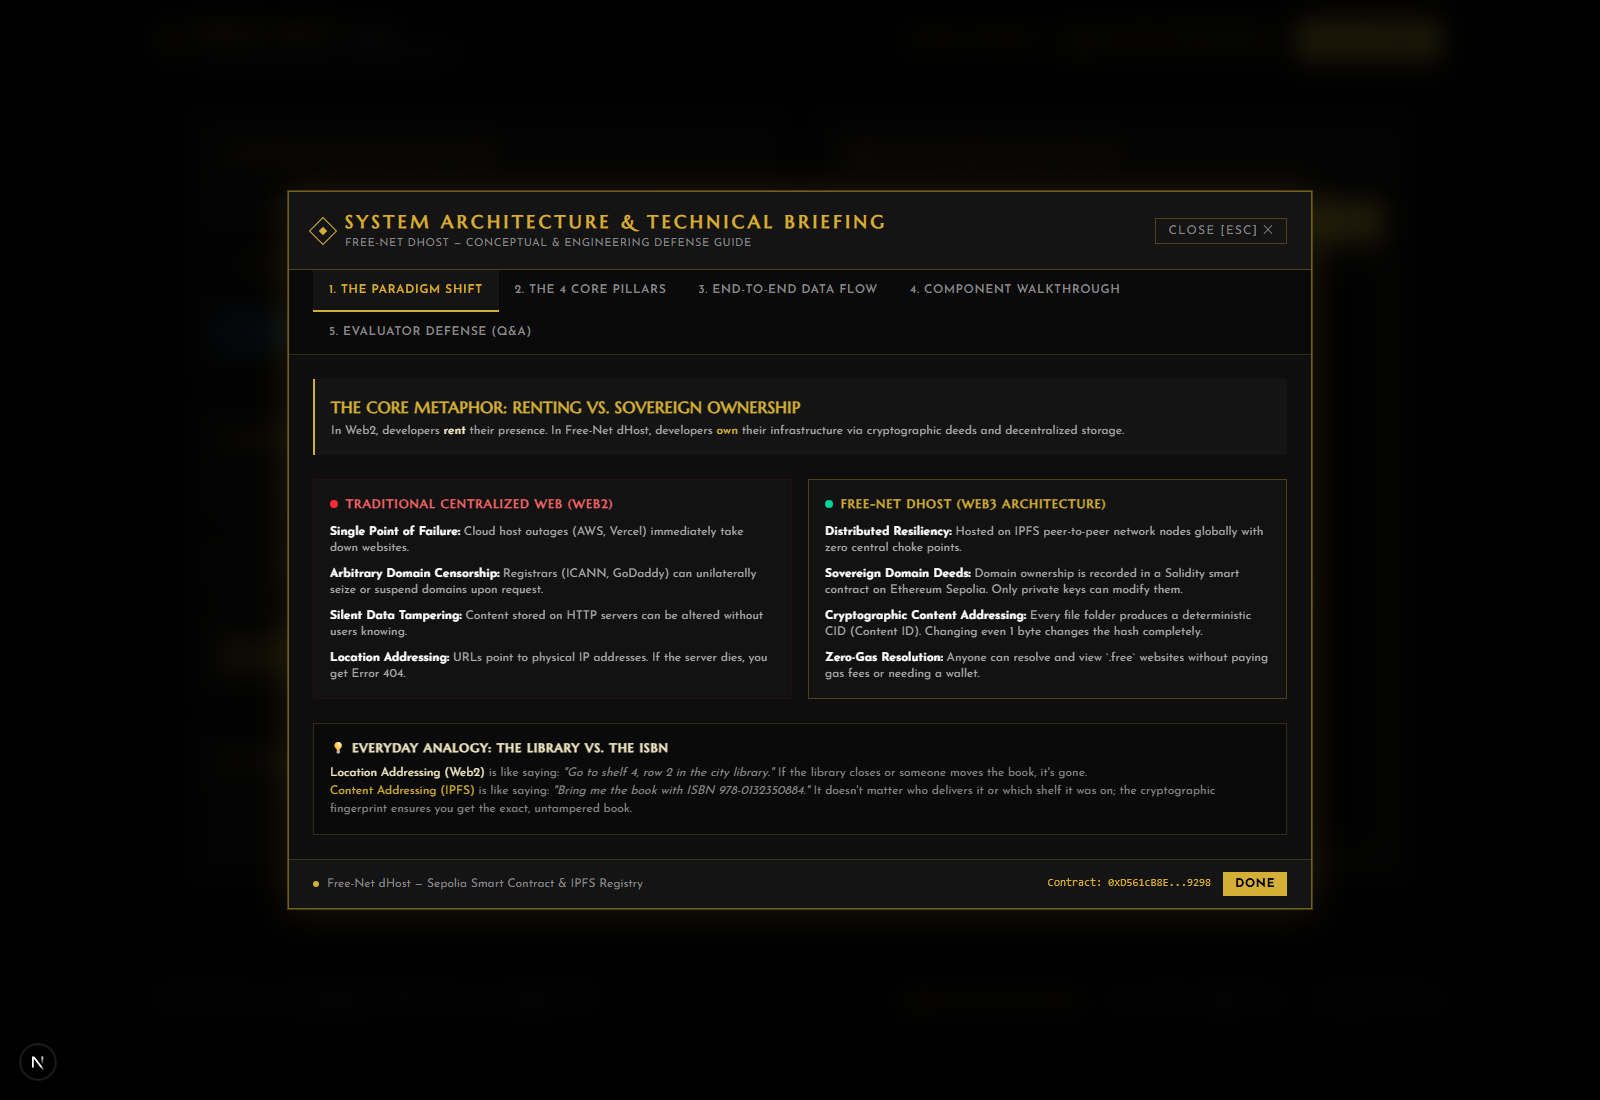
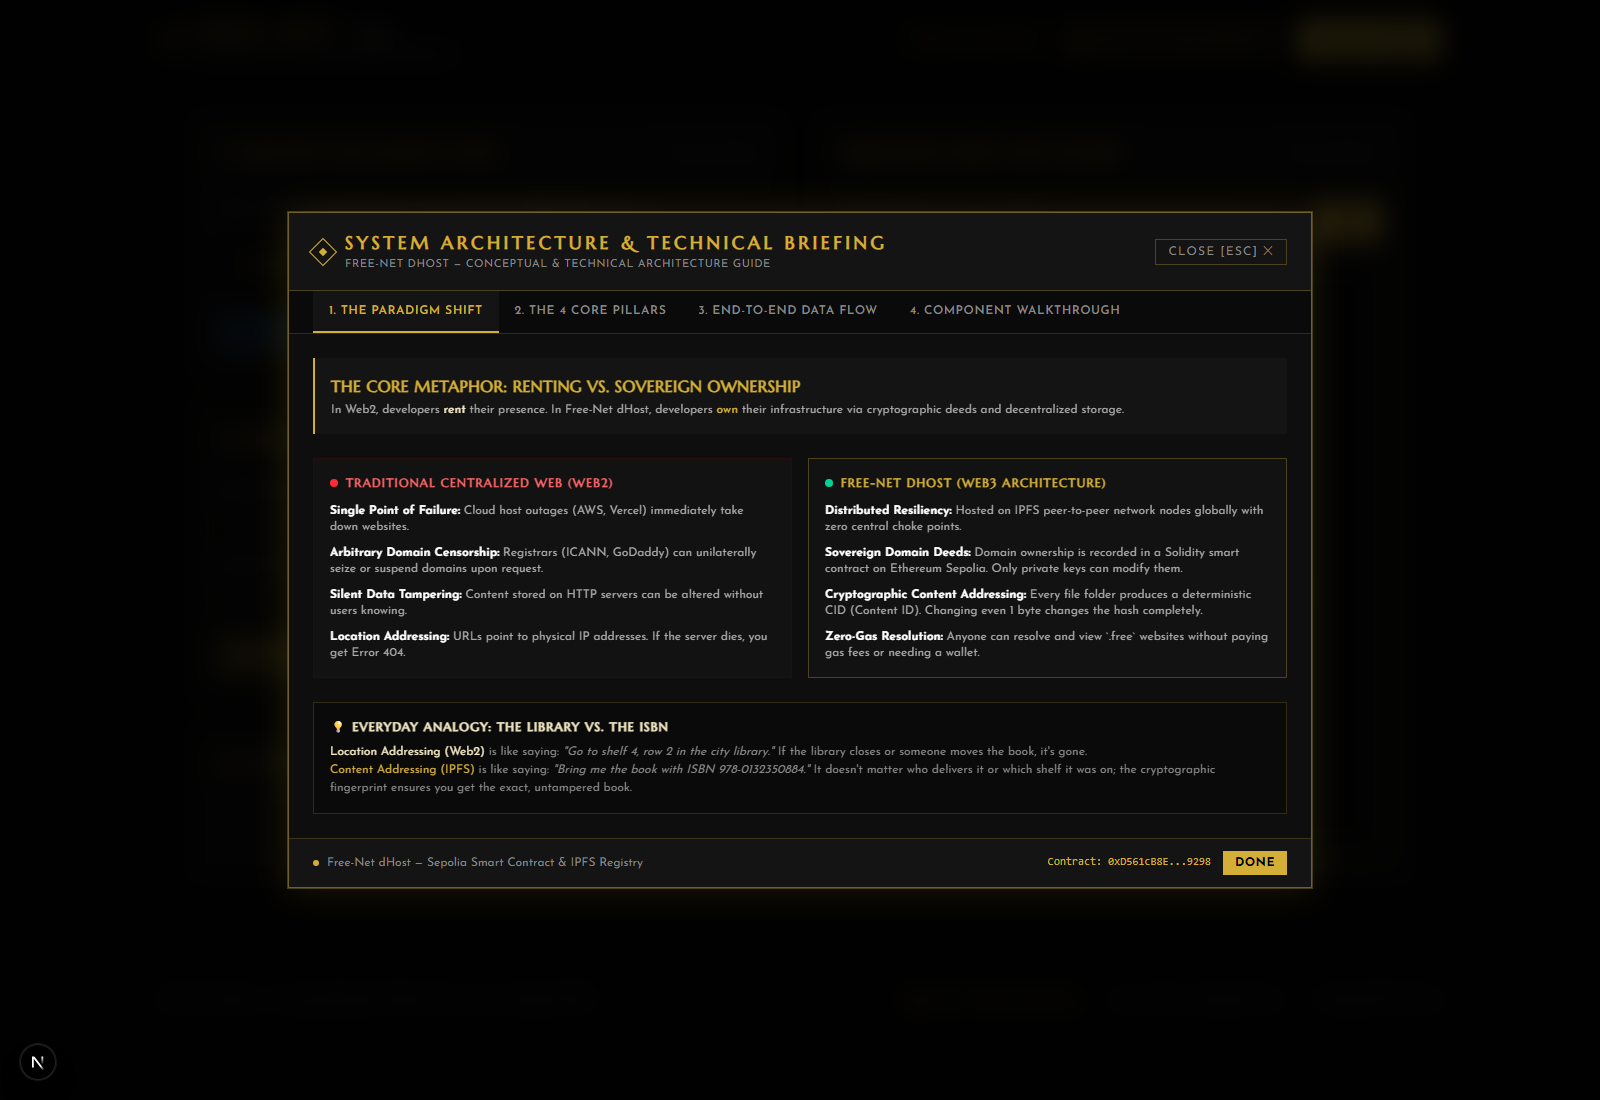
refactor: remove evaluator defense tab from briefing modal, keeping pure architectural guide

diff --git a/freenet-frontend/components/ArchitectureBriefingModal.tsx b/freenet-frontend/components/ArchitectureBriefingModal.tsx
@@ -6,7 +6,7 @@ interface Props {
 }
 
 export default function ArchitectureBriefingModal({ isOpen, onClose }: Props) {
-  const [activeTab, setActiveTab] = useState<'paradigm' | 'pillars' | 'flow' | 'components' | 'viva'>('paradigm');
+  const [activeTab, setActiveTab] = useState<'paradigm' | 'pillars' | 'flow' | 'components'>('paradigm');
 
   if (!isOpen) return null;
 
@@ -29,14 +29,14 @@ export default function ArchitectureBriefingModal({ isOpen, onClose }: Props) {
                 System Architecture &amp; Technical Briefing
               </h2>
               <p className="text-[11px] text-[#888888] tracking-wider uppercase">
-                Free-Net dHost — Conceptual &amp; Engineering Defense Guide
+                Free-Net dHost — Conceptual &amp; Technical Architecture Guide
               </p>
             </div>
           </div>
 
           <button
             onClick={onClose}
-            className="text-xs text-[#888888] hover:text-[#D4AF37] border border-[#D4AF37]/30 hover:border-[#D4AF37] px-3 py-1 uppercase tracking-widest transition"
+            className="text-xs text-[#888888] hover:text-[#D4AF37] border border-[#D4AF37]/30 hover:border-[#D4AF37] px-3 py-1 uppercase tracking-widest transition cursor-pointer"
           >
             Close [Esc] ✕
           </button>
@@ -46,7 +46,7 @@ export default function ArchitectureBriefingModal({ isOpen, onClose }: Props) {
         <div className="flex flex-wrap border-b border-[#D4AF37]/20 bg-[#0A0A0A] px-6">
           <button
             onClick={() => setActiveTab('paradigm')}
-            className={`py-3 px-4 text-xs uppercase tracking-wider font-semibold border-b-2 transition ${
+            className={`py-3 px-4 text-xs uppercase tracking-wider font-semibold border-b-2 transition cursor-pointer ${
               activeTab === 'paradigm'
                 ? 'border-[#D4AF37] text-[#D4AF37] bg-[#141414]'
                 : 'border-transparent text-[#888888] hover:text-[#F2E8C4]'
@@ -56,7 +56,7 @@ export default function ArchitectureBriefingModal({ isOpen, onClose }: Props) {
           </button>
           <button
             onClick={() => setActiveTab('pillars')}
-            className={`py-3 px-4 text-xs uppercase tracking-wider font-semibold border-b-2 transition ${
+            className={`py-3 px-4 text-xs uppercase tracking-wider font-semibold border-b-2 transition cursor-pointer ${
               activeTab === 'pillars'
                 ? 'border-[#D4AF37] text-[#D4AF37] bg-[#141414]'
                 : 'border-transparent text-[#888888] hover:text-[#F2E8C4]'
@@ -66,7 +66,7 @@ export default function ArchitectureBriefingModal({ isOpen, onClose }: Props) {
           </button>
           <button
             onClick={() => setActiveTab('flow')}
-            className={`py-3 px-4 text-xs uppercase tracking-wider font-semibold border-b-2 transition ${
+            className={`py-3 px-4 text-xs uppercase tracking-wider font-semibold border-b-2 transition cursor-pointer ${
               activeTab === 'flow'
                 ? 'border-[#D4AF37] text-[#D4AF37] bg-[#141414]'
                 : 'border-transparent text-[#888888] hover:text-[#F2E8C4]'
@@ -76,23 +76,13 @@ export default function ArchitectureBriefingModal({ isOpen, onClose }: Props) {
           </button>
           <button
             onClick={() => setActiveTab('components')}
-            className={`py-3 px-4 text-xs uppercase tracking-wider font-semibold border-b-2 transition ${
+            className={`py-3 px-4 text-xs uppercase tracking-wider font-semibold border-b-2 transition cursor-pointer ${
               activeTab === 'components'
                 ? 'border-[#D4AF37] text-[#D4AF37] bg-[#141414]'
                 : 'border-transparent text-[#888888] hover:text-[#F2E8C4]'
             }`}
           >
             4. Component Walkthrough
-          </button>
-          <button
-            onClick={() => setActiveTab('viva')}
-            className={`py-3 px-4 text-xs uppercase tracking-wider font-semibold border-b-2 transition ${
-              activeTab === 'viva'
-                ? 'border-[#D4AF37] text-[#D4AF37] bg-[#141414]'
-                : 'border-transparent text-[#888888] hover:text-[#F2E8C4]'
-            }`}
-          >
-            5. Evaluator Defense (Q&amp;A)
           </button>
         </div>
 
@@ -305,49 +295,6 @@ export default function ArchitectureBriefingModal({ isOpen, onClose }: Props) {
                   </p>
                   <p className="text-[11px] text-[#888888] font-mono">
                     Key Tech: Custom Next.js Streaming Proxy, Iframe Sandbox.
-                  </p>
-                </div>
-              </div>
-            </div>
-          )}
-
-          {/* TAB 5: EVALUATOR DEFENSE (VIVA Q&A) */}
-          {activeTab === 'viva' && (
-            <div className="space-y-4 animate-fadeIn">
-              <div className="space-y-3">
-                <div className="p-3 bg-[#121212] border border-[#D4AF37]/30">
-                  <h4 className="text-xs font-bold text-[#D4AF37] uppercase">
-                    Q1: Why not store HTML and images directly on the Ethereum blockchain?
-                  </h4>
-                  <p className="text-xs text-[#AAA] mt-1">
-                    <strong>Answer:</strong> Storing data directly on EVM storage is economically prohibitive (costs roughly $10,000+ per megabyte). Smart contracts are designed for verification of state and ownership, while IPFS is built for peer-to-peer hypermedia. By storing only the 46-character CID on-chain, transaction fees are pennies, yet content immutability is cryptographically guaranteed.
-                  </p>
-                </div>
-
-                <div className="p-3 bg-[#121212] border border-[#D4AF37]/30">
-                  <h4 className="text-xs font-bold text-[#D4AF37] uppercase">
-                    Q2: How do you prevent front-running or malicious domain stealing?
-                  </h4>
-                  <p className="text-xs text-[#AAA] mt-1">
-                    <strong>Answer:</strong> In `DomainRegistry.sol`, the `registerDomain` function enforces `require(registry[_name].owner == address(0), &quot;Domain already registered&quot;)`. When updating a domain, it strictly checks `require(registry[_name].owner == msg.sender, &quot;Not domain owner&quot;)`. No unauthorized account can overwrite existing deeds.
-                  </p>
-                </div>
-
-                <div className="p-3 bg-[#121212] border border-[#D4AF37]/30">
-                  <h4 className="text-xs font-bold text-[#D4AF37] uppercase">
-                    Q3: How does the zero-gas resolution work for end users?
-                  </h4>
-                  <p className="text-xs text-[#AAA] mt-1">
-                    <strong>Answer:</strong> The `resolve(string name)` function is marked as a Solidity `view` function. In EVM mechanics, view functions execute locally via JSON-RPC read calls against node state without generating a transaction receipt, costing exactly 0 gas and requiring no wallet signatures.
-                  </p>
-                </div>
-
-                <div className="p-3 bg-[#121212] border border-[#D4AF37]/30">
-                  <h4 className="text-xs font-bold text-[#D4AF37] uppercase">
-                    Q4: How did you solve the browser iframe &apos;Refused to connect&apos; error?
-                  </h4>
-                  <p className="text-xs text-[#AAA] mt-1">
-                    <strong>Answer:</strong> Public IPFS gateways enforce `X-Frame-Options: SAMEORIGIN` and rate limits (429). We designed an in-app streaming gateway proxy (`/api/gateway/[...path]`). Our server fetches authenticated chunks from Pinata via Bearer JWT, strips the restrictive framing headers, and streams the raw assets into an isolated sandbox iframe.
                   </p>
                 </div>
               </div>
